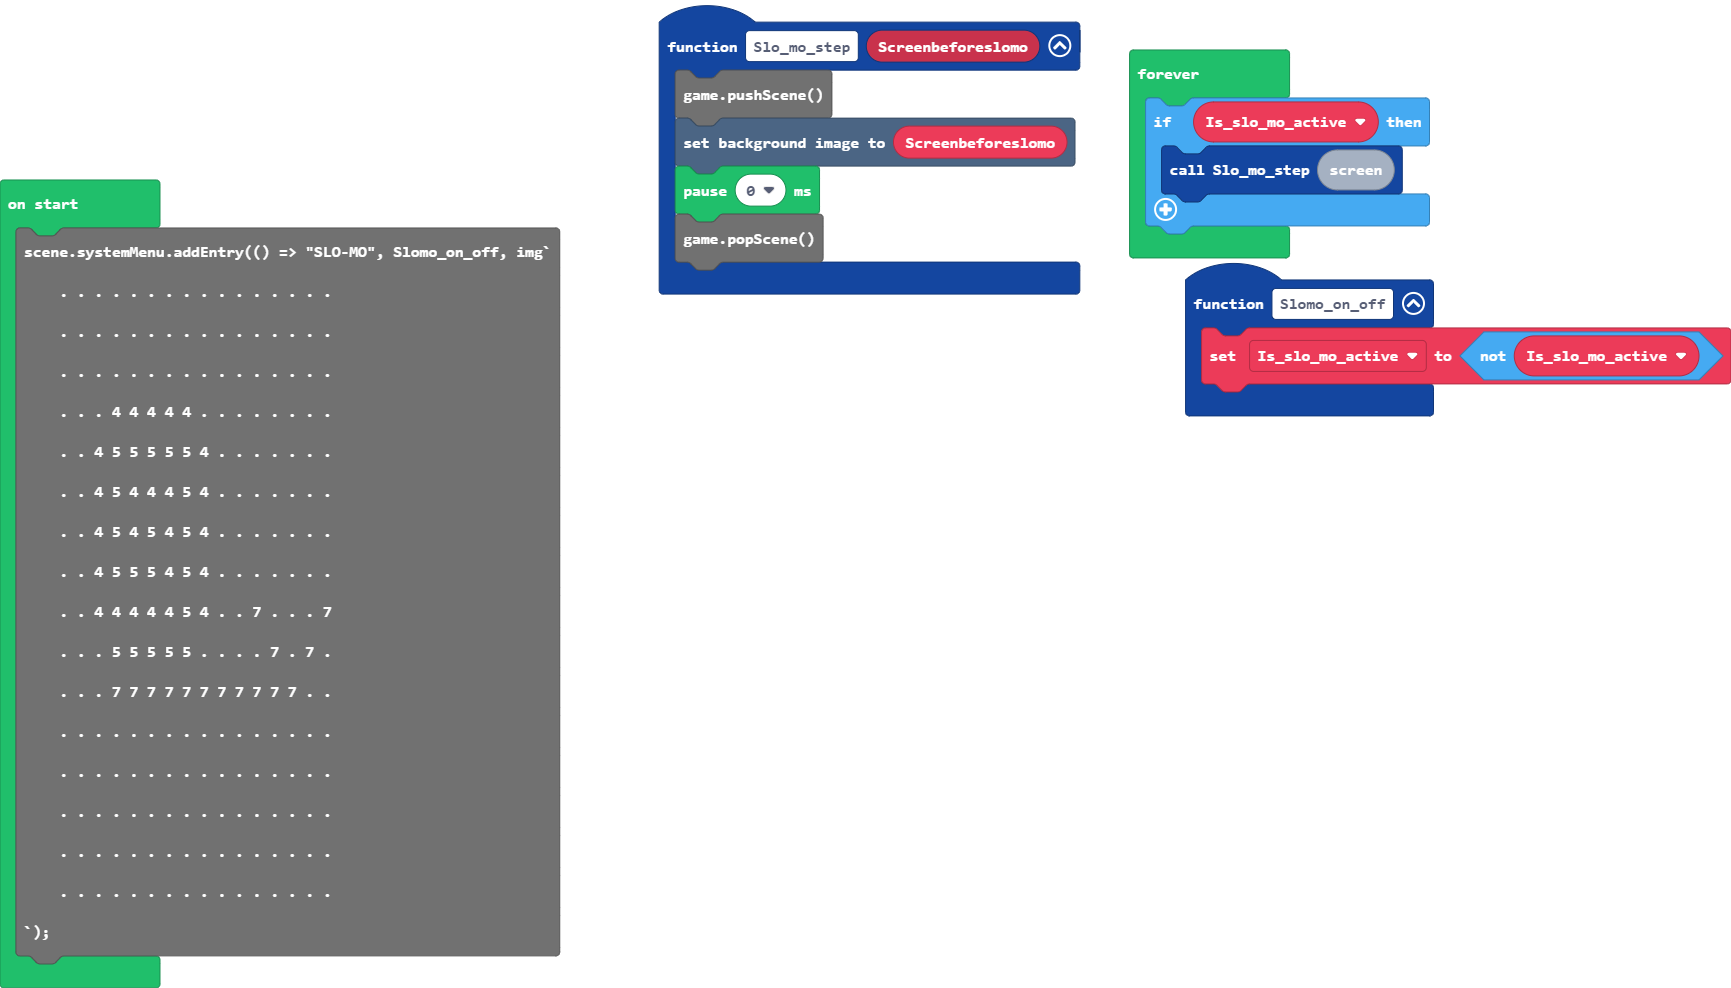
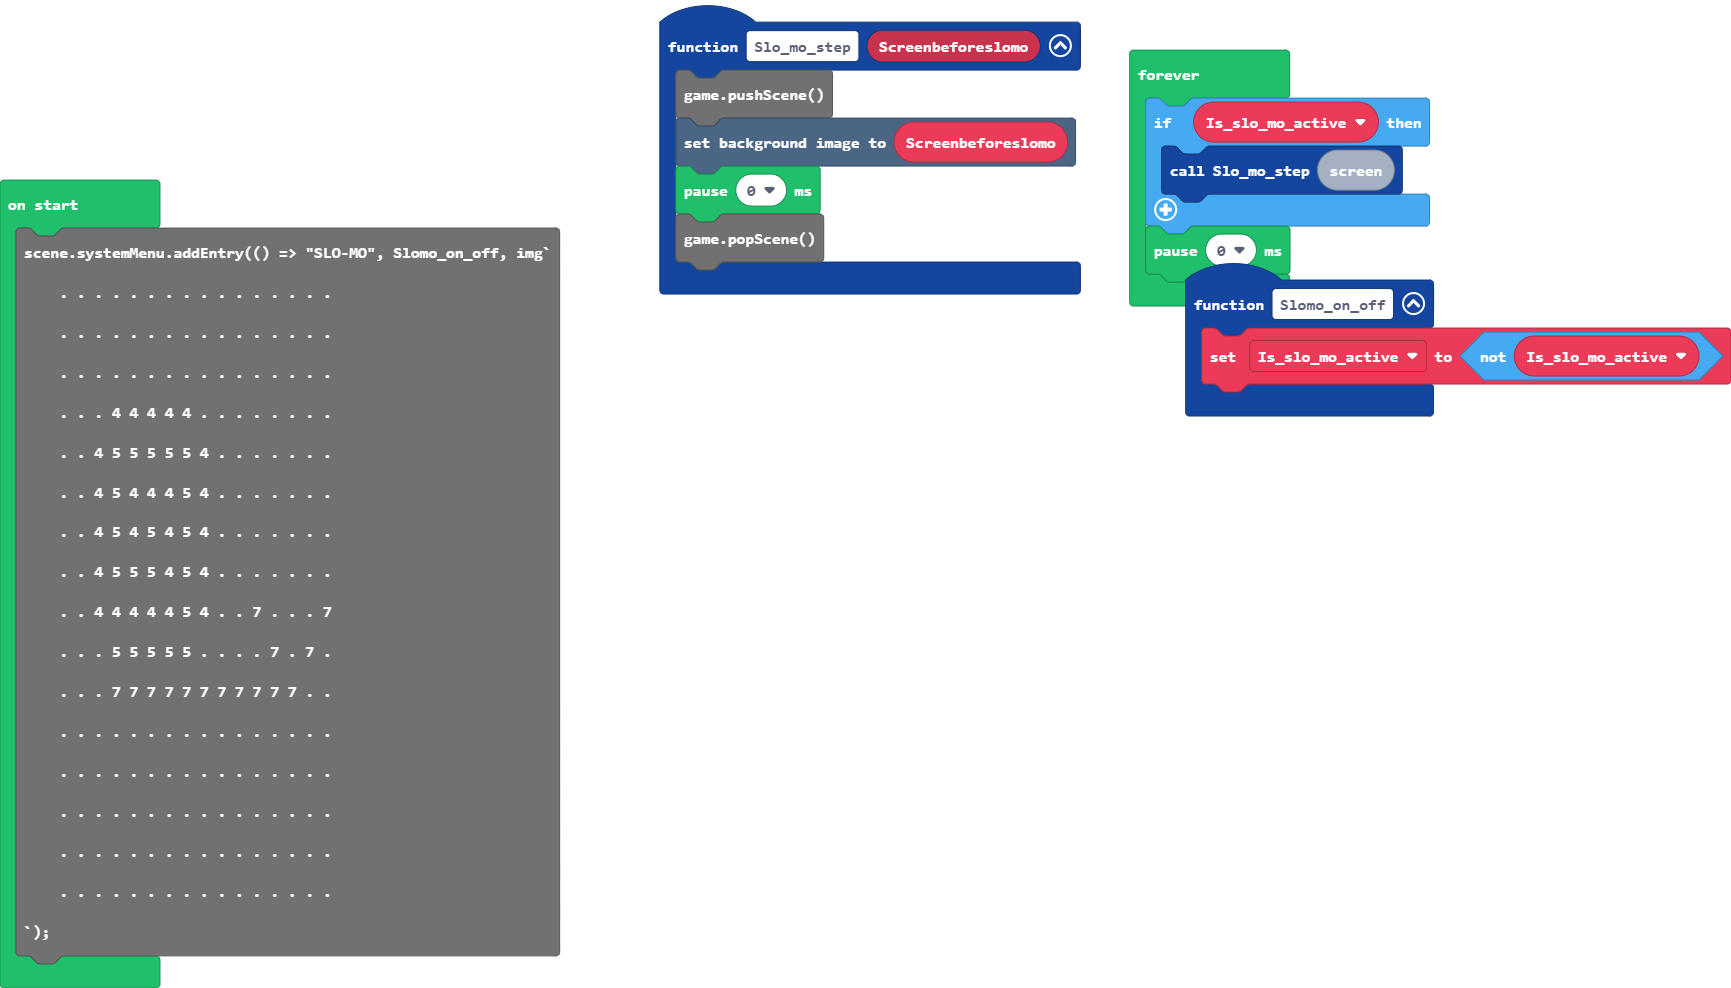
Update main.blocks, main.ts

diff --git a/main.ts b/main.ts
@@ -30,4 +30,5 @@ forever(function () {
     if (Is_slo_mo_active) {
         Slo_mo_step(image.screenImage())
     }
+    pause(0)
 })
